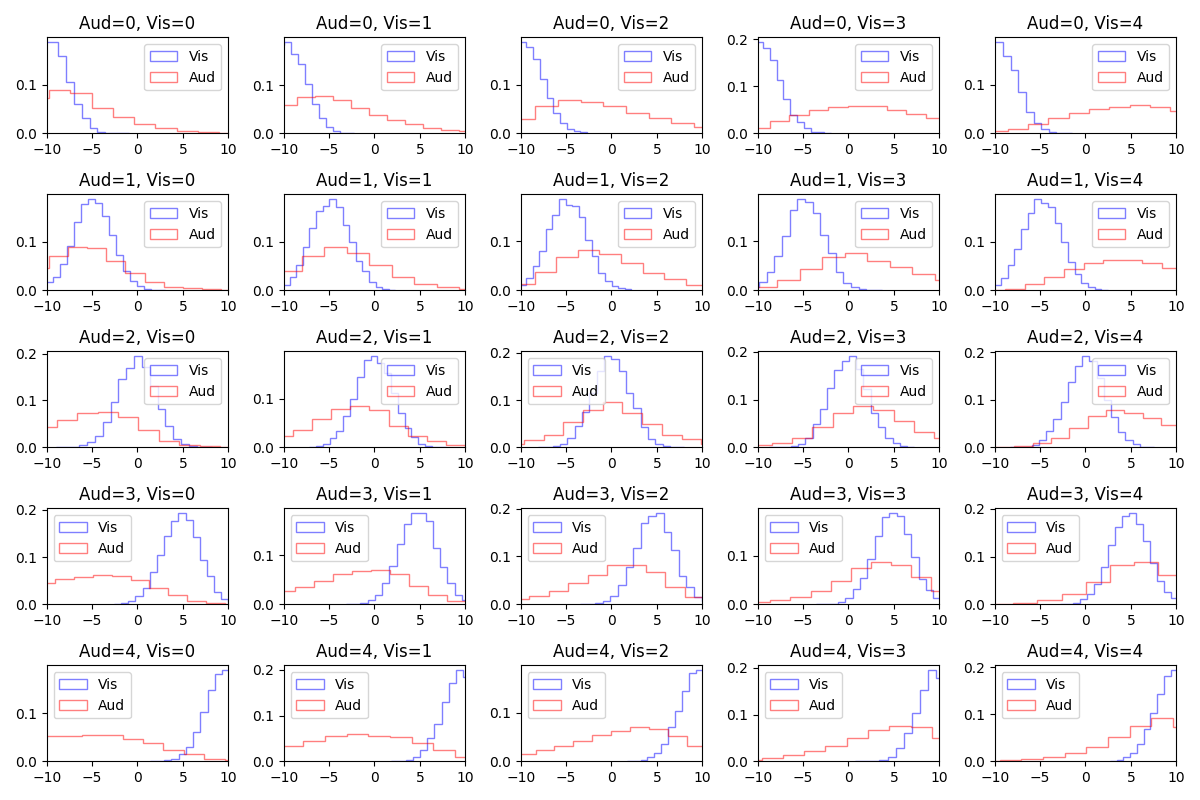
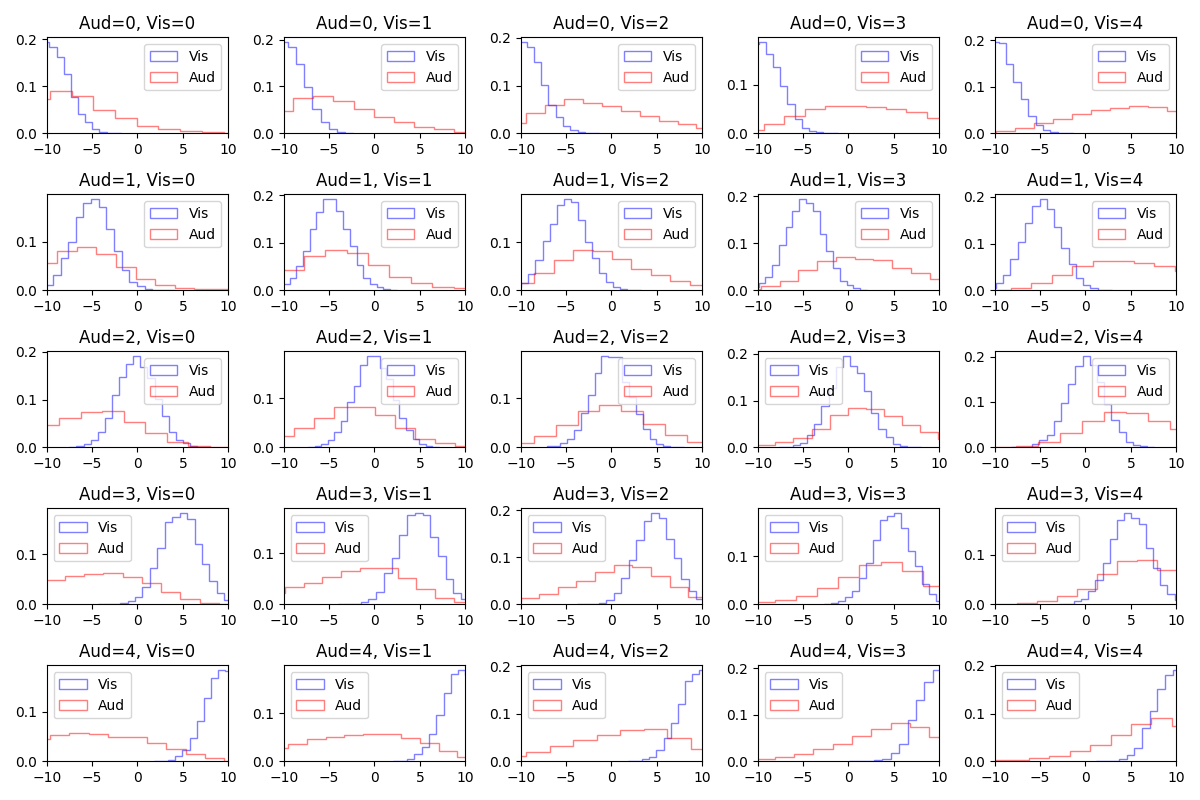
test posterior distribution in sim and analytic forms and complete causal inference

diff --git a/von_mises_causal_inference.py b/von_mises_causal_inference.py
@@ -346,13 +346,15 @@ def generative_model():
                                                         kappa_2=np.ones(n_means))
     utils.plot_2d_histogram(x_vs, x_as)
 
-def compare_likelihoods(likelihood, sim_likelihood, plot=False):
+def compare_likelihoods(likelihood, sim_likelihood, plot=False, title=None):
     diff_likelihood=likelihood-sim_likelihood
     print(f'Max difference between analytic and simulated likelihood: {np.max(np.abs(diff_likelihood))}')
     print(f'Max analytic and simulated likelihood: {np.max(likelihood), np.max(sim_likelihood)}')
     if plot:
         plt.hist(likelihood[:, 1,1], bins=20, label='analytic', alpha=0.5, edgecolor='b', histtype='step', density=True)
         plt.hist(sim_likelihood[:, 1, 1], bins=20, label='sim', alpha=0.5, edgecolor='r', histtype='step', density=True)
+        if title is not None:
+            plt.title(title)
         plt.legend()
         plt.show()
 
@@ -367,7 +369,8 @@ def test_likelihoods(x_v, x_a, kappa_v, kappa_a, mu_p, kappa_p):
     sim_likelihood_common_cause = sim_model.likelihood_common_cause(x_v=x_v, x_a=x_a, 
                                                                     sigma_v=kappa_v, sigma_a=kappa_a,
                                                                     mu_p=mu_p, sigma_p=kappa_p)
-    compare_likelihoods(likelihood_common_cause, sim_likelihood_common_cause, plot=True)
+    compare_likelihoods(likelihood_common_cause, sim_likelihood_common_cause, plot=True,
+                        title='Likelihood common cause (analytic vs simulation)')
 
     # compute p(x_V, x_A| C=2) by simulating x_V, x_A and using equation (5) in Kording, 2007
     likelihood_separate_cause = model.likelihood_separate_causes(x_v=x_v, x_a=x_a, sigma_v=kappa_v, 
@@ -385,7 +388,7 @@ if __name__ == "__main__":
     num_sim = 1000
     stimuli_values = np.linspace(-np.pi, np.pi, 5) 
     # Parameters for the von Mises distributions
-    kappa_v, kappa_a = 1 / (2.14), 1 / (9.2)  # Concentration parameters for visual and auditory inputs
+    kappa_v, kappa_a = 2, 1  # Concentration parameters for visual and auditory inputs
     mu_p, kappa_p = None, None  # Uniform stimulus prior
     pi_c = 0.23  # Prior probability of the common cause hypothesis
     s_vs, s_as = np.meshgrid(stimuli_values, stimuli_values, indexing='ij')
@@ -414,6 +417,16 @@ if __name__ == "__main__":
     plt.title('Von Mises approximation and simulated distribution of mean responses')
     plt.show()
     segregated_est_v = model.segregation_estimate(x=x_v, mu_p=mu_p, sigma=kappa_v, sigma_p=kappa_p)
+    # TODO: check concentration for distribution of means in Von Mises 
+    # https://en.wikipedia.org/wiki/Von_Mises_distribution#Distribution_of_the_mean
+    segregated_est_v_analytic = vonmises.rvs(kappa=kappa_v, loc=s_vs, size=(num_sim, stimuli_values.size, stimuli_values.size))
+    plt.hist(segregated_est_v_analytic[:, 1, 1], bins=20, label='analytic', alpha=0.5, edgecolor='b', histtype='step', density=True)
+    plt.hist(segregated_est_v[:, 1, 1], bins=20, label='simulation', alpha=0.5, edgecolor='r', histtype='step', density=True)
+    plt.legend()
+    plt.title('Visual optimal estimate analytic and simulated distributions of mean responses')
+    plt.show()
     segregated_est_a = model.segregation_estimate(x=x_a, mu_p=mu_p, sigma=kappa_a, sigma_p=kappa_p)
     causal_inference_est_v, causal_inference_est_a = model.bayesian_causal_inference(x_v, x_a, kappa_v,
                                                                     kappa_a, mu_p, kappa_p, pi_c)
+    causal_inference.plot_histograms(causal_inference_est_v, causal_inference_est_a, x='Aud', y='Vis', 
+                    x_min=stimuli_values[0], x_max=stimuli_values[-1], filepath='./fig2c_VM.png')
